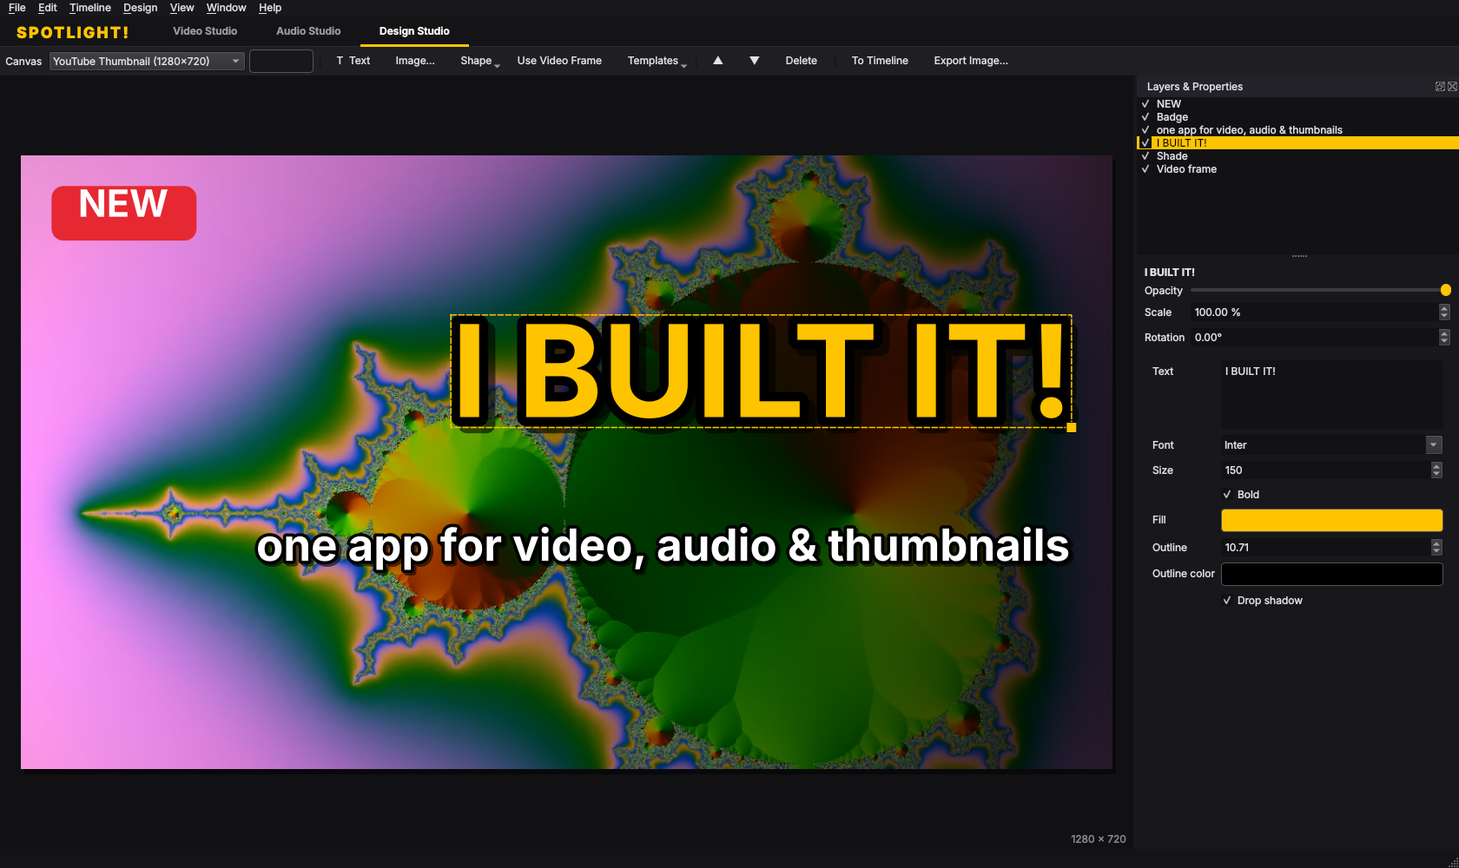
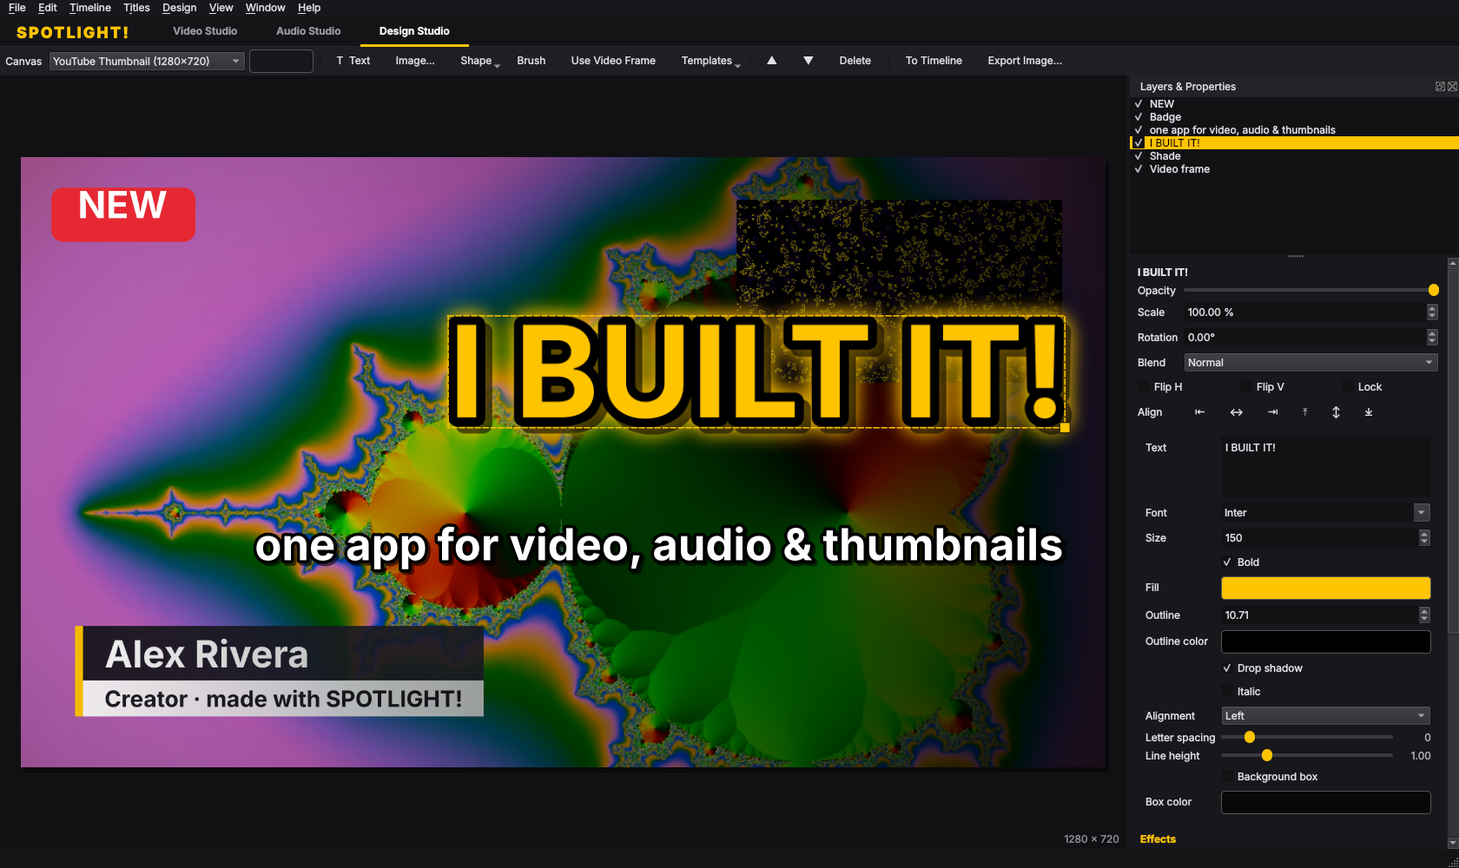
README, roadmap and website for the pro feature release
New screenshots and banners, a feature-by-studio README, an updated
roadmap, and a GitHub Pages landing page (docs/index.html) with a
social preview image.

Claude-Session: https://claude.ai/code/session_011LJoQWnDZ6EukKVCGGmetC

diff --git a/docs/index.html b/docs/index.html
@@ -1,0 +1,174 @@
+<!doctype html>
+<html lang="en">
+<head>
+<meta charset="utf-8">
+<meta name="viewport" content="width=device-width, initial-scale=1">
+<title>SPOTLIGHT! — Edit video, mix audio, design thumbnails</title>
+<meta name="description" content="A free desktop studio for creators: Premiere-style video editing, Logic-style audio mixing and Photoshop-style thumbnail design in one app. macOS and Linux.">
+<meta property="og:title" content="SPOTLIGHT! — one free app for video, audio & thumbnails">
+<meta property="og:description" content="Multitrack editing, transitions, titles, green screen, auto-ducking, voiceover recording and a layered thumbnail designer. macOS & Linux.">
+<meta property="og:image" content="https://nyteryzer.github.io/spotlight-/screenshots/social-preview.png">
+<meta property="og:type" content="website">
+<meta name="twitter:card" content="summary_large_image">
+<meta name="twitter:image" content="https://nyteryzer.github.io/spotlight-/screenshots/social-preview.png">
+<link rel="icon" href="icon.png">
+<link rel="preconnect" href="https://fonts.googleapis.com">
+<link href="https://fonts.googleapis.com/css2?family=Inter:wght@400;600;800;900&display=swap" rel="stylesheet">
+<style>
+:root {
+  --bg: #0e0e11; --panel: #17171c; --line: #2a2a33; --text: #ececf2; --dim: #9a9aa8;
+  --accent: #ffc400; --accent2: #ff6a00;
+}
+* { box-sizing: border-box; }
+body { margin: 0; background: var(--bg); color: var(--text); font-family: Inter, system-ui, sans-serif; line-height: 1.55; }
+a { color: var(--accent); text-decoration: none; }
+.wrap { max-width: 1160px; margin: 0 auto; padding: 0 20px; }
+header { position: relative; overflow: hidden; padding: 72px 0 40px; }
+header::before { content: ""; position: absolute; inset: -40% 40% 30% -20%; background: radial-gradient(closest-side, rgba(255,170,0,.28), transparent); }
+header::after { content: ""; position: absolute; inset: 30% -20% -40% 55%; background: radial-gradient(closest-side, rgba(120,60,220,.25), transparent); }
+.hero { position: relative; z-index: 1; display: grid; grid-template-columns: 1fr; gap: 40px; align-items: center; }
+@media (min-width: 900px) { .hero { grid-template-columns: 5fr 7fr; } }
+.logo { display: flex; align-items: center; gap: 14px; }
+.logo img { width: 56px; height: 56px; border-radius: 14px; }
+h1 { font-size: clamp(44px, 7vw, 76px); font-weight: 900; color: var(--accent); margin: 18px 0 8px; letter-spacing: -1px; line-height: 1; }
+.tag { font-size: clamp(20px, 2.4vw, 26px); font-weight: 600; margin: 0 0 16px; }
+.sub { color: var(--dim); font-size: 17px; margin: 0 0 28px; }
+.buttons { display: flex; flex-wrap: wrap; gap: 12px; }
+.btn { display: inline-flex; align-items: center; gap: 8px; padding: 13px 20px; border-radius: 12px; font-weight: 700; font-size: 15px; border: 1px solid var(--line); background: var(--panel); color: var(--text); transition: transform .12s, border-color .12s; }
+.btn:hover { transform: translateY(-2px); border-color: var(--accent); }
+.btn.primary { background: linear-gradient(135deg, var(--accent), var(--accent2)); color: #141414; border: 0; }
+.note { color: var(--dim); font-size: 13px; margin-top: 12px; }
+.shot { width: 100%; border-radius: 14px; border: 1px solid rgba(255,196,0,.5); box-shadow: 0 30px 80px rgba(0,0,0,.6); display: block; }
+section { padding: 56px 0; }
+h2 { font-size: clamp(28px, 4vw, 38px); font-weight: 800; margin: 0 0 10px; }
+.lead { color: var(--dim); margin: 0 0 32px; font-size: 17px; }
+.studio { display: grid; grid-template-columns: 1fr; gap: 28px; align-items: center; margin-bottom: 64px; }
+@media (min-width: 900px) { .studio { grid-template-columns: 1fr 1fr; } .studio.flip > :first-child { order: 2; } }
+.studio h3 { font-size: 26px; margin: 0 0 4px; }
+.like { color: var(--accent); font-weight: 600; font-size: 14px; text-transform: uppercase; letter-spacing: .08em; }
+ul.feat { list-style: none; padding: 0; margin: 14px 0 0; }
+ul.feat li { padding: 6px 0 6px 28px; position: relative; color: #d7d7e0; }
+ul.feat li::before { content: "✓"; position: absolute; left: 0; color: var(--accent); font-weight: 800; }
+.grid { display: grid; grid-template-columns: repeat(auto-fit, minmax(230px, 1fr)); gap: 16px; }
+.card { background: var(--panel); border: 1px solid var(--line); border-radius: 14px; padding: 20px; }
+.card b { display: block; margin-bottom: 6px; font-size: 16px; }
+.card span { color: var(--dim); font-size: 14px; }
+.dl { display: grid; grid-template-columns: repeat(auto-fit, minmax(240px, 1fr)); gap: 16px; }
+.dl .card { display: flex; flex-direction: column; gap: 10px; }
+.dl .os { font-size: 30px; }
+footer { border-top: 1px solid var(--line); padding: 30px 0 50px; color: var(--dim); font-size: 14px; }
+code { background: #22222a; padding: 2px 6px; border-radius: 6px; font-size: 13px; }
+</style>
+</head>
+<body>
+<header>
+  <div class="wrap hero">
+    <div>
+      <div class="logo"><img src="icon.png" alt=""><strong style="font-size:18px;letter-spacing:.06em">SPOTLIGHT!</strong></div>
+      <h1>One app.<br>Video, audio &amp; thumbnails.</h1>
+      <p class="tag">Edit like Premiere and CapCut. Mix like Logic. Design like Photoshop.</p>
+      <p class="sub">A free desktop studio for creators. Cut your video, clean up and mix the audio, then design the
+        thumbnail from a frame of the same project, without switching apps.</p>
+      <div class="buttons">
+        <a class="btn primary" href="https://github.com/NyteRyzer/spotlight-/releases/latest">⬇ Download free</a>
+        <a class="btn" href="https://github.com/NyteRyzer/spotlight-">★ View on GitHub</a>
+      </div>
+      <p class="note">macOS 12+ (Apple Silicon &amp; Intel) · Linux AppImage &amp; .deb · FFmpeg included</p>
+    </div>
+    <img class="shot" src="screenshots/video-studio.png" alt="SPOTLIGHT! Video Studio with picture-in-picture, a lower third title and transitions">
+  </div>
+</header>
+
+<section>
+  <div class="wrap">
+    <h2>Three studios, one project</h2>
+    <p class="lead">Everything shares one timeline, one media bin and one undo history, and it is all autosaved.</p>
+
+    <div class="studio">
+      <img class="shot" src="screenshots/video-studio.png" alt="Video Studio">
+      <div>
+        <div class="like">Premiere · CapCut · Filmora</div>
+        <h3>🎬 Video Studio</h3>
+        <ul class="feat">
+          <li>Multitrack timeline with insert, overwrite, ripple and razor edits</li>
+          <li>Layered compositing: picture-in-picture, split screen and overlays</li>
+          <li>16 transitions: dissolves, wipes, slides, iris and zoom</li>
+          <li>Titles and lower thirds in 8 styles, plus SRT captions</li>
+          <li>Speed 0.1×–8×, reverse and freeze frame</li>
+          <li>One-click looks, color controls, green screen and Ken Burns</li>
+          <li>Remove silences, scene detection, beat markers, auto reframe to 9:16</li>
+        </ul>
+      </div>
+    </div>
+
+    <div class="studio flip">
+      <img class="shot" src="screenshots/audio-studio.png" alt="Audio Studio">
+      <div>
+        <div class="like">Logic Pro</div>
+        <h3>🎚 Audio Studio</h3>
+        <ul class="feat">
+          <li>Waveform timeline and mixer with volume, pan, mute and solo</li>
+          <li>Denoise, noise gate, de-esser, EQ, compressor and limiter</li>
+          <li>Voice changer, reverb and echo</li>
+          <li>Auto-ducking: the music drops under your voice automatically</li>
+          <li>Record voiceovers while the timeline plays</li>
+          <li>Loudness targets for YouTube (−14 LUFS) and podcasts (−16 LUFS)</li>
+        </ul>
+      </div>
+    </div>
+
+    <div class="studio">
+      <img class="shot" src="screenshots/design-studio.png" alt="Design Studio">
+      <div>
+        <div class="like">Photoshop</div>
+        <h3>🎨 Design Studio</h3>
+        <ul class="feat">
+          <li>Layers of images, text, shapes and brush drawings</li>
+          <li>Blend modes, drop shadow, outer glow and stroke</li>
+          <li>Background removal, crop, fade masks, hue, blur and B&amp;W</li>
+          <li>Thumbnail templates and YouTube safe-zone guides</li>
+          <li>Grab any video frame, and send any design back to the timeline</li>
+        </ul>
+      </div>
+    </div>
+  </div>
+</section>
+
+<section style="background:#121216">
+  <div class="wrap">
+    <h2>Built for creators</h2>
+    <p class="lead">The tools you reach for every upload, without the subscription.</p>
+    <div class="grid">
+      <div class="card"><b>✂ Jump cuts in one click</b><span>Remove Silences finds the pauses in your talking head and cuts them out, keeping every track in sync.</span></div>
+      <div class="card"><b>📱 Shorts-ready</b><span>Auto Reframe turns a 16:9 edit into 9:16, 1:1 or 4:5. Export presets cover YouTube, TikTok, Reels and Instagram.</span></div>
+      <div class="card"><b>🎵 Cut on the beat</b><span>Drop beat markers at your song's BPM, or tap the tempo, and clips snap to them.</span></div>
+      <div class="card"><b>👀 The preview matches the export</b><span>The monitor composites tracks, looks, keys and transitions exactly as the renderer does.</span></div>
+      <div class="card"><b>💾 Never lose work</b><span>Autosave, crash recovery, unlimited undo and automatic media relinking.</span></div>
+      <div class="card"><b>⌨ Your shortcuts</b><span>Remap every shortcut and save custom panel layouts for each studio.</span></div>
+    </div>
+  </div>
+</section>
+
+<section id="download">
+  <div class="wrap">
+    <h2>Download</h2>
+    <p class="lead">Free. Everything you need is bundled, including FFmpeg.</p>
+    <div class="dl">
+      <div class="card"><div class="os"></div><b>macOS · Apple Silicon</b><span>macOS 14 or newer</span>
+        <a class="btn primary" href="https://github.com/NyteRyzer/spotlight-/releases/latest">Download .dmg</a></div>
+      <div class="card"><div class="os"></div><b>macOS · Intel</b><span>macOS 12 or newer</span>
+        <a class="btn primary" href="https://github.com/NyteRyzer/spotlight-/releases/latest">Download .dmg</a></div>
+      <div class="card"><div class="os">🐧</div><b>Linux · AppImage</b><span>Any 2024+ x86_64 distro: <code>chmod +x</code> and run</span>
+        <a class="btn primary" href="https://github.com/NyteRyzer/spotlight-/releases/latest">Download AppImage</a></div>
+      <div class="card"><div class="os">📦</div><b>Ubuntu / Debian</b><span><code>sudo apt install ./spotlight-*.deb</code></span>
+        <a class="btn" href="https://github.com/NyteRyzer/spotlight-/releases/latest">Download .deb</a></div>
+    </div>
+    <p class="note">The macOS builds aren't notarized yet. On first launch, open <b>System Settings → Privacy &amp; Security</b> and click <b>Open Anyway</b>.</p>
+  </div>
+</section>
+
+<footer>
+  <div class="wrap">SPOTLIGHT! · Built with Qt and FFmpeg · <a href="https://github.com/NyteRyzer/spotlight-">Source &amp; issues on GitHub</a></div>
+</footer>
+</body>
+</html>

diff --git a/README.md b/README.md
@@ -1,80 +1,101 @@
-# SPOTLIGHT!
+<p align="center">
+  <img src="docs/screenshots/hero.png" alt="SPOTLIGHT! — edit video, mix audio and design thumbnails in one free app" width="100%">
+</p>
 
-**SPOTLIGHT!** is an all-in-one creative production studio: edit video, mix audio and design
-thumbnails and channel art in **one project, one window**. It aims to bring the most important
-parts of Premiere Pro, Logic Pro and Photoshop together for YouTubers, podcasters, musicians,
-filmmakers, and anyone else making things.
+<p align="center">
+  <a href="https://github.com/NyteRyzer/spotlight-/releases/latest"><b>⬇ Download for macOS &amp; Linux</b></a> ·
+  <a href="#features">Features</a> ·
+  <a href="#keyboard-shortcuts">Shortcuts</a> ·
+  <a href="#building">Build from source</a>
+</p>
 
-```
-┌──────────────────────────────────────────────────────────────────────────┐
-│ SPOTLIGHT!   [ Video Studio ]   Audio Studio   Design Studio             │
-├──────────────────────────────────────────────────────────────────────────┤
-│  one shared project: media bin · timeline · mixer · design document     │
-└──────────────────────────────────────────────────────────────────────────┘
-```
+**SPOTLIGHT!** is a free desktop creative studio for YouTubers, podcasters and editors. It brings the everyday
+features of **Premiere Pro, CapCut, Filmora, Logic Pro and Photoshop** into one app. You edit a video, clean up and
+mix its audio, then design its thumbnail, all in **one project**.
 
-> Status: **Milestone 1 (foundation)**, with early versions of the Audio and Design studios.
-> Builds and tests run on **macOS** and **Linux**. Windows comes in a later stage (see [ROADMAP](docs/ROADMAP.md)).
+| 🎬 Video Studio | 🎚 Audio Studio | 🎨 Design Studio |
+|---|---|---|
+| ![Video Studio](docs/screenshots/video-studio.png) | ![Audio Studio](docs/screenshots/audio-studio.png) | ![Design Studio](docs/screenshots/design-studio.png) |
 
-## What works today
+## Features
 
-### Video Studio
-- Import video, audio and images (file dialog, or drag files from Finder/your file manager)
-- Media bin with thumbnails, duration badges, missing-file markers
-- **Source monitor**: preview clips, mark in/out, *Add to Timeline*
-- **Program monitor**: plays the edited timeline (top video track wins, gaps are black)
-- **Multitrack timeline**: drag to place, move between tracks, trim edges, split at the playhead (`S`),
-  delete / ripple delete, snapping to clip edges and the playhead, zoom, track hide/mute/solo/lock
-- Linked audio/video: a video with sound puts its audio on the matching audio track; edits move both
-- Per-clip **color** (brightness / contrast / saturation) and **dip-to-black** fades, previewed live
-- **Export** with FFmpeg and presets: YouTube 1080p/1080p60/4K, Shorts/Reels vertical, square,
-  H.265 archive, VP9/WebM, plus MP3 / M4A / WAV audio-only. Save your own presets.
+### 🎬 Video Studio (Premiere / CapCut / Filmora)
+- **Multitrack timeline** with move, trim, split (razor), ripple delete, **insert edits**, **close gaps**,
+  snapping, linked audio/video, copy/paste/duplicate and markers.
+- **Layered compositing.** Upper tracks sit on top of lower ones, so you can do **picture-in-picture**,
+  **split screen**, overlays and logos.
+- **Transform** any clip: scale, position, rotation, opacity, flip and crop. One-click PIP and split-screen layouts.
+- **Transitions:** cross dissolve, dip to black/white, wipes, slides, iris, clock wipe, pixelate and zoom.
+- **Titles and lower thirds.** Eight styles: Big Title, Lower Third, Caption, Subscribe Button, Chapter Card, Neon,
+  Breaking News and Quote. They stay editable, with a live preview.
+- **Captions:** import and export **SRT** subtitles.
+- **Speed** from 0.1× to 8× (pitch-preserving audio), **reverse**, and **freeze frame**.
+- **Looks / filters:** Warm, Cool, Vivid, Cinematic, Vintage, Faded, Moody, Dreamy, B&W, Noir and Sepia. You can
+  also fine-tune brightness, contrast, saturation, temperature, tint, vignette and blur.
+- **Chroma key** (green and blue screen), **Ken Burns** zoom and pan, and **stabilization**.
+- **Smart tools:** **Remove Silences** (automatic jump cuts), **Scene Edit Detection**, **beat markers**
+  (BPM or tap tempo) and **Auto Reframe** to 9:16, 1:1 or 4:5 for Shorts, Reels and TikTok.
+- The preview **matches the export**. The Program Monitor composites tracks, looks, keys and transitions the same
+  way the renderer does.
+- **Export presets:** YouTube 1080p/4K, Shorts/Reels/TikTok, Instagram, H.265 archive, WebM, podcast MP3 and
+  WAV. Includes loudness normalization to −14 / −16 LUFS.
 
-### Audio Studio
-- Waveform timeline of the audio tracks (same project as the Video Studio)
-- **Mixer** with per-track volume (dB), pan, mute and solo
-- **Track effects**: 3-band EQ, compressor, and one-click *dialogue cleanup* (rumble filter + FFT noise reduction).
-  Effects are rendered on export; the preview plays the dry signal.
-- Clip gain and fades
+### 🎚 Audio Studio (Logic Pro)
+- Waveform timeline with a **mixer**: volume, pan, mute and solo.
+- Per-track effects: **dialogue cleanup** (denoise), **noise gate**, **de-esser**, **3-band EQ**, **compressor**,
+  **voice changer** (pitch shift), **reverb**, **echo/delay** and **limiter**.
+- **Auto-ducking:** music dips automatically under voice tracks, and you can see and hear it while editing.
+- **Voiceover recording** straight onto a track while the timeline plays.
+- One-click presets: Podcast Voice, Music Bed, Deep Voice, Chipmunk and Big Hall. Plus clip gain, fades and
+  **Normalize**.
 
-### Design Studio
-- Canvas presets: YouTube thumbnail (1280×720), channel art (2560×1440), square/portrait posts, story, A4 poster, custom
-- Layers: images, text (outline + drop shadow), rectangles/ellipses; move and scale on canvas, rotate, opacity
-- Image adjustments (brightness / contrast / saturation)
-- **Capture Frame**: grab the current frame from either monitor and it becomes the thumbnail background
-- Export PNG or JPEG at full canvas resolution
+### 🎨 Design Studio (Photoshop)
+- Layers of images, text, shapes (rectangle, ellipse, triangle, star, arrow, line) and **brush drawings**.
+- **Blend modes:** Multiply, Screen, Overlay, Soft Light, Difference and more. Layers can be flipped, locked and
+  aligned.
+- **Layer effects:** drop shadow, outer glow, and **stroke**. The classic white outline around a cut-out subject is
+  one slider.
+- **Remove background** from solid or studio backdrops. Image adjustments include crop, hue, blur, B&W, invert and
+  **fade masks**.
+- Text with outline, shadow, italic, letter spacing, alignment and caption-style background boxes. Shapes can use
+  gradient fills.
+- **Thumbnail templates**, safe-zone guides (including the YouTube timestamp corner), canvas presets for
+  thumbnails, channel art, posters and stories.
+- **Grab any video frame** as a layer, and send any design **to the timeline** as an intro or end card.
 
-### Everywhere
-- `.spotlight` project files (JSON). Media paths are stored absolute *and* relative, so moving a project folder with its media still works
-- 200-step undo/redo shared by all three studios
-- **Autosave** (default every 2 minutes) and **crash recovery** on next launch
-- **Customizable layouts**: every panel is a dock you can move, float, close; save named layouts per studio; *Window → Reset Layout*
-- **Customizable keyboard shortcuts** (*Edit → Keyboard Shortcuts…*)
-
-## Default shortcuts
-
-| Action | Key | Action | Key |
-|---|---|---|---|
-| Play / Pause | `Space` | Split at playhead | `S` |
-| Previous / next frame | `←` / `→` | Delete / Ripple delete | `Del` / `Shift+Del` |
-| Go to start / end | `Home` / `End` | Zoom in / out / fit | `=` / `-` / `\` |
-| Snapping | `N` | Add selected bin clip at playhead | `.` |
-| Import media | `Ctrl+I` | Export video/audio | `Ctrl+M` |
-| Export design image | `Ctrl+Shift+M` | Capture program frame to design | `Ctrl+Shift+F` |
-| Video / Audio / Design studio | `Ctrl+1` / `2` / `3` | Add text layer | `Ctrl+T` |
-
-(`Ctrl` is `⌘` on macOS.)
+### 🔗 One connected project
+- **Autosave** and crash **recovery**, undo/redo for everything, and relinking of moved media.
+- **Customizable layouts** and **keyboard shortcuts**.
+- Bundled FFmpeg, so there is nothing else to install.
 
 ## Download
 
-Ready-made builds are on the [Releases page](https://github.com/NyteRyzer/spotlight-/releases):
+Get the latest build from the **[Releases page](https://github.com/NyteRyzer/spotlight-/releases/latest)**:
 
 | Platform | File | Notes |
 |---|---|---|
 | macOS 14+ (Apple Silicon) | `SPOTLIGHT-<ver>-macOS-arm64.dmg` | Drag to Applications. Not notarized yet: on first launch use **System Settings → Privacy & Security → Open Anyway**. |
-| macOS 12+ (Intel) | `SPOTLIGHT-<ver>-macOS-Intel.dmg` | Same as above. Built against the official Qt 6.8 LTS with static FFmpeg. |
-| Linux x86_64 (2024+ distros) | `SPOTLIGHT-<ver>-x86_64.AppImage` | `chmod +x` and run — nothing to install. |
+| macOS 12+ (Intel) | `SPOTLIGHT-<ver>-macOS-Intel.dmg` | Same as above. |
+| Linux x86_64 (2024+ distros) | `SPOTLIGHT-<ver>-x86_64.AppImage` | `chmod +x` and run, nothing to install. |
 | Ubuntu 24.04 / Debian 13 | `spotlight-<ver>-linux-x86_64.deb` | `sudo apt install ./spotlight-*.deb` |
+
+## Keyboard shortcuts
+
+| Action | Shortcut | Action | Shortcut |
+|---|---|---|---|
+| Play / pause | `Space` | Split at playhead | `S` |
+| Previous / next frame | `←` / `→` | Ripple delete | `Shift+Del` |
+| Overwrite source clip at playhead | `.` | **Insert** source clip at playhead | `,` |
+| **Freeze frame** | `Shift+F` | **Record voiceover** | `Ctrl+R` |
+| **Add title** | `Ctrl+Alt+T` | Add / remove marker | `M` |
+| Next / previous marker | `Shift+M` / `Alt+M` | Snapping | `N` |
+| Copy / paste / duplicate | `Ctrl+C` / `V` / `D` | Zoom in / out / fit | `=` / `-` / `\` |
+| Import media | `Ctrl+I` | Export video/audio | `Ctrl+M` |
+| Export frame as image | `Ctrl+Shift+E` | Place design on timeline | `Ctrl+Shift+T` |
+| Capture program frame to design | `Ctrl+Shift+F` | Show guides | `G` |
+| Video / Audio / Design studio | `Ctrl+1` / `2` / `3` | Add text layer | `Ctrl+T` |
+
+(`Ctrl` is `⌘` on macOS. Every shortcut can be changed in **Edit → Keyboard Shortcuts**.)
 
 ## Building
 
@@ -109,8 +130,10 @@ Installers: `cd build && cpack` → `.deb` and `.tar.gz`; `packaging/linux/build
 ```bash
 QT_QPA_PLATFORM=offscreen ctest --test-dir build --output-on-failure
 ```
-Unit tests cover timeline editing, project files, undo, autosave/recovery and export command generation;
-an end-to-end test renders a real file with FFmpeg, and a GUI smoke test drives the whole window offscreen.
+Unit tests cover timeline editing (including speed, insert, ripple and freeze frame), project files, undo,
+autosave/recovery, captions and the export graph. Render tests export real files with FFmpeg and check the output
+pixels: transitions, picture-in-picture and chroma key. GUI tests check that the preview compositor matches, render
+design effects, and drive the whole window offscreen.
 
 CI (`.github/workflows/build.yml`) builds, tests, packages and smoke-launches the installers on Ubuntu 24.04 and
 macOS (Apple Silicon and Intel). Pushing a `v*` tag (or running the workflow with a release tag) publishes the `.dmg`,

diff --git a/docs/ROADMAP.md b/docs/ROADMAP.md
@@ -13,30 +13,23 @@ SPOTLIGHT! is built in stages instead of trying to recreate three huge applicati
 - [x] Customizable dock layouts and keyboard shortcuts
 - [x] macOS (.dmg) and Linux (.deb, .tar.gz, AppImage) packaging + CI
 
-## Stage 2 — Video Studio depth
-- [ ] Titles / lower thirds on the timeline (reuse the Design Studio renderer as a title generator)
-- [ ] Cross-dissolve and wipe transitions between adjacent clips (FFmpeg `xfade`)
-- [ ] Compositing of upper tracks (picture-in-picture, opacity, position/scale per clip)
-- [ ] Speed changes, freeze frames, reverse
-- [ ] Proxy media for 4K editing; background thumbnail strips along clips
-- [ ] Markers, in/out range export, J/K/L shuttle
-- [ ] LUT support and three-way colour wheels
+## Stage 2 — Pro features ✅ (v0.2)
+- [x] Layered compositing: picture-in-picture, opacity, position/scale/rotation/crop per clip
+- [x] Transitions (FFmpeg `xfade`, previewed live), titles and lower thirds, SRT captions
+- [x] Speed, reverse, freeze frame, insert edits, close gaps, markers
+- [x] Looks/filters, temperature/tint, vignette, blur, chroma key, Ken Burns, stabilization
+- [x] Remove silences, scene edit detection, beat markers, auto reframe
+- [x] Voiceover recording, gate, de-esser, voice changer, reverb, echo, limiter, auto-ducking, loudness targets
+- [x] Design: blend modes, drop shadow/glow/stroke, background removal, crop, fade masks, brush, more shapes, templates
 
-## Stage 3 — Audio Studio depth
-- [ ] Real-time effect preview (own audio engine on `QAudioSink` instead of per-track `QMediaPlayer`s)
-- [ ] Voice-over recording to a track; input monitoring
-- [ ] Volume automation lanes and keyframes; crossfades
-- [ ] Loudness normalisation to −14 LUFS (YouTube) / −16 LUFS (podcasts) on export, meters
-- [ ] More effects: de-esser, gate, reverb, limiter; VST3/AU/LV2 plugin hosting
-- [ ] MIDI and a simple step sequencer for music beds
-
-## Stage 4 — Design Studio depth
-- [ ] Layer masks and clipping masks, blend modes
-- [ ] Background removal for subjects (on-device segmentation model)
-- [ ] Gradients, strokes on shapes, text on path, effects (glow, blur)
-- [ ] Brush/eraser tools, crop
-- [ ] Templates (thumbnail styles), safe-zone overlays for YouTube/Shorts
-- [ ] Export the design straight into the timeline (end card / intro)
+## Stage 3 — Next up
+- [ ] Keyframes for transform, opacity and volume (automation lanes)
+- [ ] Automatic captions (on-device speech-to-text, e.g. whisper.cpp)
+- [ ] AI background removal for complex scenes (segmentation model)
+- [ ] Real-time audio effect preview (own audio engine on `QAudioSink`), level meters
+- [ ] Proxy media for 4K, LUT import and colour wheels, J/K/L shuttle
+- [ ] MIDI, step sequencer and VST3/AU/LV2 hosting
+- [ ] Text on a path, clipping masks, more templates
 
 ## Stage 5 — Performance & polish
 - [ ] GPU video pipeline (QRhi) and hardware decoding/encoding (VideoToolbox, VA-API, NVENC)
